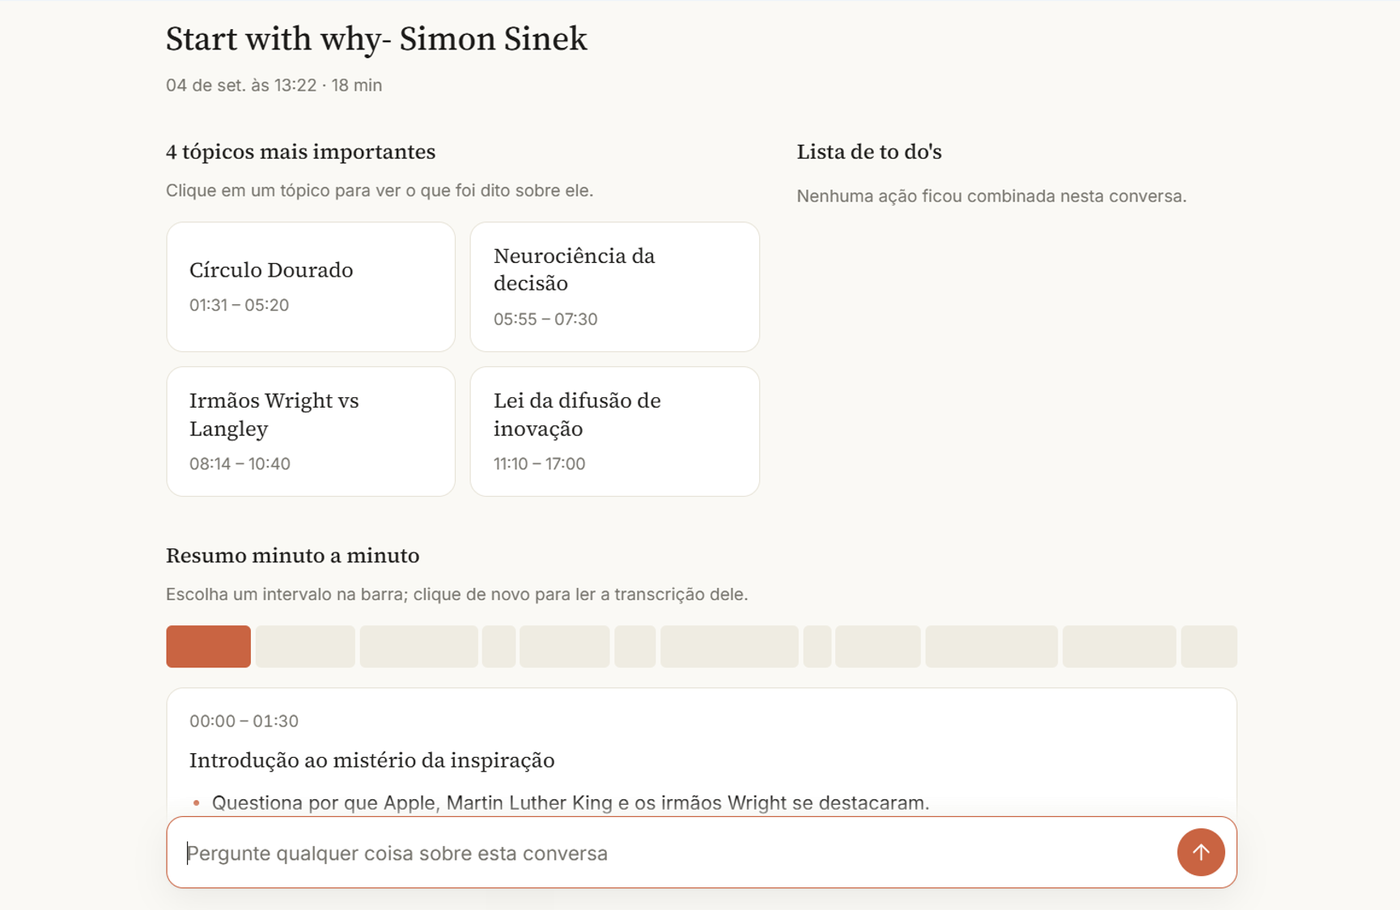
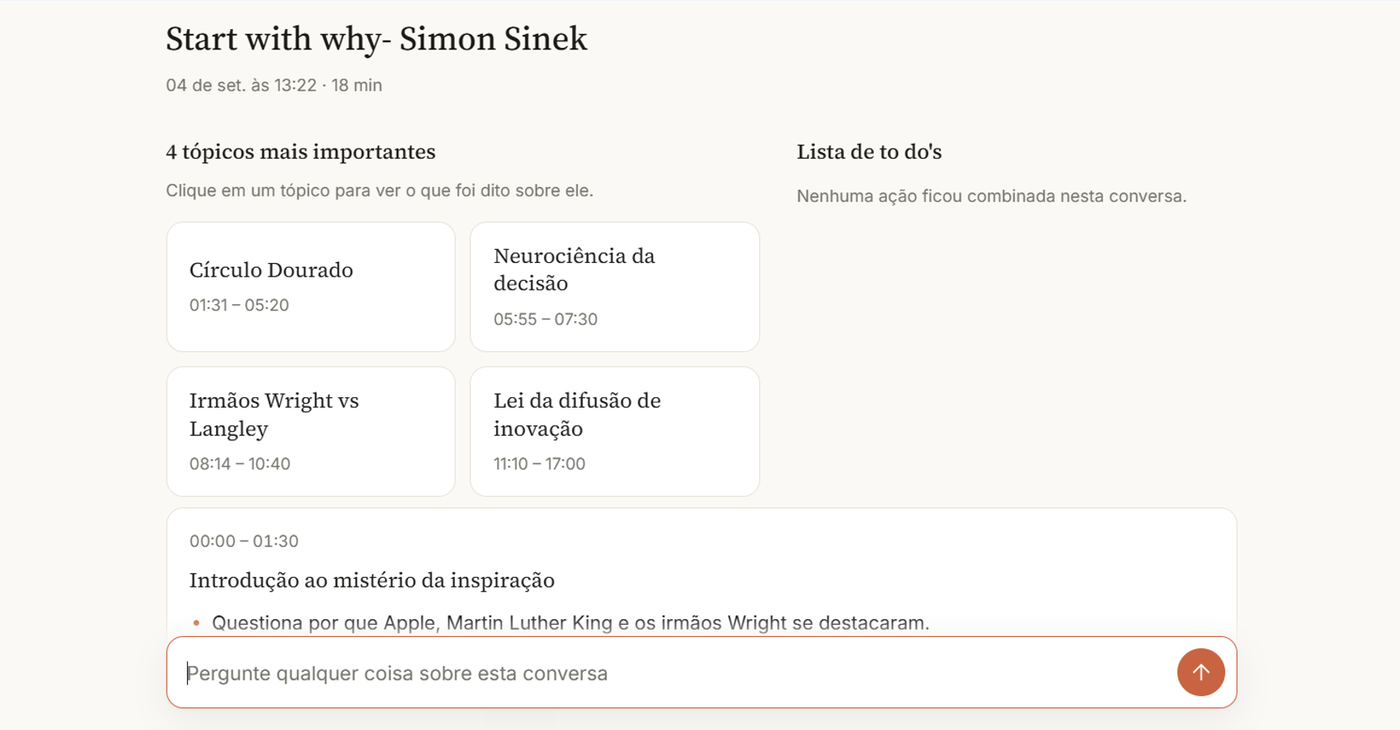
fix: remove vão vazio nos cards de Produto e enxuga o print do resultado
margin-top: auto empurrava a foto para o fundo do card sempre que o
vizinho era mais alto, deixando um vazio entre o texto e a imagem —
feio nos dois temas, pior no escuro. Troca para margin-top fixo: a
imagem agora fica logo depois do parágrafo, como no card ao lado.

resultado.png perde a seção "Resumo minuto a minuto" (já coberta pela
demo animada do hero) — o corte junta o cabeçalho+tópicos direto com o
trecho de transcrição e a barra de perguntar, sem esse recheio do meio.

diff --git a/frontend/src/index.css b/frontend/src/index.css
@@ -428,12 +428,12 @@ input::placeholder { color: var(--text-muted); }
 
 /* Print real do app, não mais o desenho em HTML: a moldura é só borda + sombra
    por cima da própria cor de fundo do app, para a foto não parecer "colada"
-   num cartão branco. object-fit: contain porque as duas telas têm proporções
-   bem diferentes (uma é larga, com barra lateral; a outra é alta, com vários
-   blocos) — cortar uma delas arriscava sumir com a barra de perguntar, que é
-   a prova mais forte do card. */
+   num cartão branco. margin-top FIXO, não `auto`: um `auto` empurrava a
+   imagem para o fundo do card e deixava um vão vazio entre o texto e a foto
+   sempre que o card vizinho era mais alto — feio nos dois temas, pior no
+   escuro, onde o vão virava um retângulo escuro sem nada dentro. */
 .lp-feat-shot {
-  margin-top: auto; border-radius: var(--radius-sm); overflow: hidden;
+  margin-top: 22px; border-radius: var(--radius-sm); overflow: hidden;
   border: 1px solid var(--border); box-shadow: var(--shadow);
 }
 .lp-feat-shot img { display: block; width: 100%; height: auto; }

diff --git a/frontend/src/pages/Landing.jsx b/frontend/src/pages/Landing.jsx
@@ -299,7 +299,7 @@ export default function Landing() {
               <div className="lp-feat-shot">
                 <img
                   src="/landing/resultado.png"
-                  alt="Página de uma conversa processada pelo Dito, com os tópicos principais, a lista de tarefas, o resumo minuto a minuto e a barra para perguntar sobre a conversa"
+                  alt="Página de uma conversa processada pelo Dito, com os tópicos principais, um trecho da transcrição e a barra para perguntar sobre a conversa"
                   loading="lazy"
                 />
               </div>
